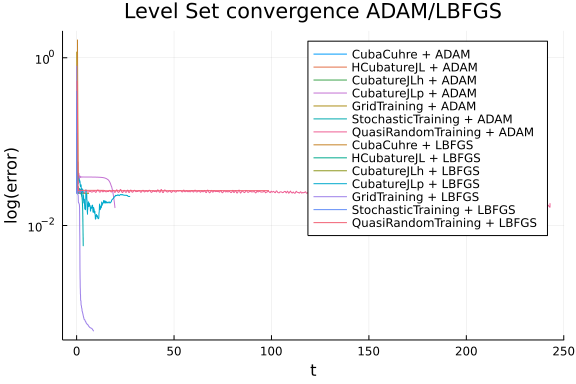
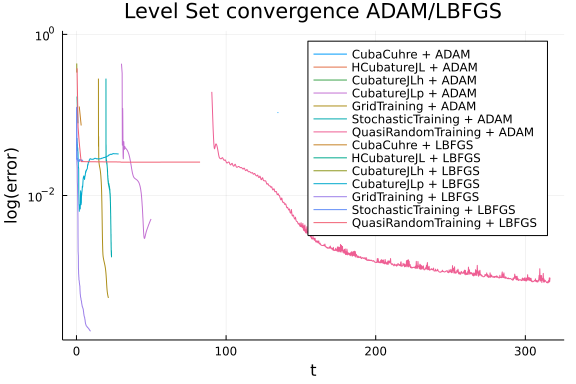
Automatic build\nPublished by build of: https://github.com/SciML/SciMLBenchmarks.jl/commit/61c047455ef7845709acad38f267d75462b74631

diff --git a/markdown/PINNErrorsVsTime/level_set_et.md b/markdown/PINNErrorsVsTime/level_set_et.md
@@ -83,7 +83,7 @@ function level_set(strategy, minimizer, maxIters)
     ## NEURAL NETWORK
     n = 10   #neuron number
 
-    chain = Lux.Chain(Lux.Dense(3, n, Lux.σ), Lux.Dense(n, n, Lux.σ), Lux.Dense(n, 1))   #Neural network from OptimizationFlux library
+    chain = Lux.Chain(Lux.Dense(3, n, tanh), Lux.Dense(n, n, tanh), Lux.Dense(n, 1))   #Neural network from OptimizationFlux library
 
     indvars = [t, x, y]   #phisically independent variables
     depvars = [u(t, x, y)]       #dependent (target) variable
@@ -266,7 +266,7 @@ Environment:
 Package Information:
 
 ```
-      Status `/cache/build/exclusive-amdci1-0/julialang/scimlbenchmarks-dot-jl/benchmarks/PINNErrorsVsTime/Project.toml`
+      Status `/cache/build/exclusive-amdci3-0/julialang/scimlbenchmarks-dot-jl/benchmarks/PINNErrorsVsTime/Project.toml`
   [de52edbc] Integrals v3.1.1
   [e00cd5f1] IntegralsCuba v0.2.0
   [c31f79ba] IntegralsCubature v0.2.0
@@ -285,7 +285,7 @@ Package Information:
 And the full manifest:
 
 ```
-      Status `/cache/build/exclusive-amdci1-0/julialang/scimlbenchmarks-dot-jl/benchmarks/PINNErrorsVsTime/Manifest.toml`
+      Status `/cache/build/exclusive-amdci3-0/julialang/scimlbenchmarks-dot-jl/benchmarks/PINNErrorsVsTime/Manifest.toml`
   [c3fe647b] AbstractAlgebra v0.27.2
   [621f4979] AbstractFFTs v1.2.1
   [1520ce14] AbstractTrees v0.4.2
